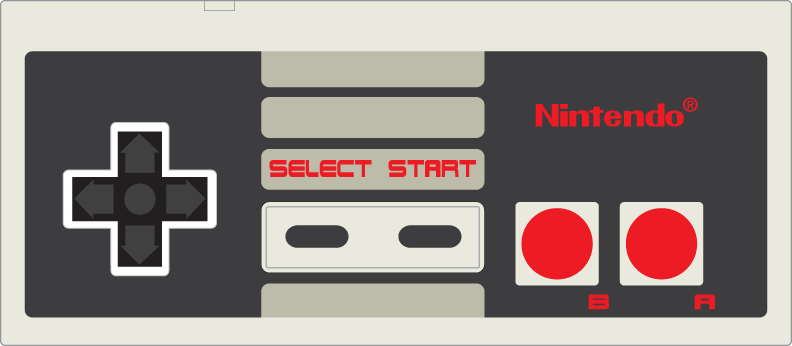
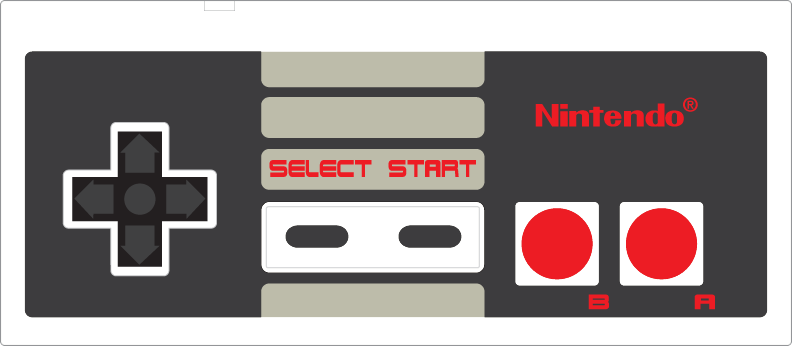
CSS controlled controller background.

diff --git a/src/megaman.css b/src/megaman.css
@@ -97,7 +97,7 @@ input {
 }
 
 #nes-controller {
-    background: url('nes-controller.png');
+    background: #eae9de url('nes-controller.png');
     background-size: contain;
     margin: 10px auto;
     height: 345px;
